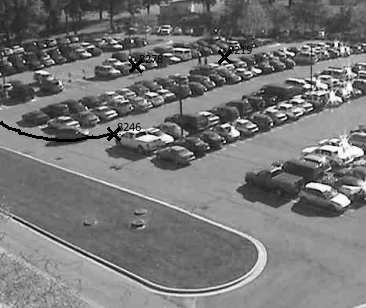
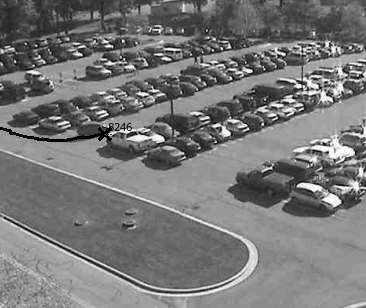
Updates for screenshotting for ARL paper.

diff --git a/src/gui/renderarea.cpp b/src/gui/renderarea.cpp
@@ -33,7 +33,7 @@ RenderArea::RenderArea(QWidget* parent)
   setSizePolicy(QSizePolicy(QSizePolicy::MinimumExpanding, QSizePolicy::MinimumExpanding));
   time = framesShown = 0;
 
-  map = QImage("../videos/ARL1-with-lines.jpg");
+  map = QImage("videos/ARL1-with-lines.jpg");
   if(map.isNull())
     qDebug() << "Unable to load map image.";
 
@@ -250,6 +250,8 @@ void RenderArea::paintEvent(QPaintEvent*)
 	    {
 	      Track* t = entities->tracks_next();
 
+	      if(t->getCy() > 1100) continue;
+
 	      if(t->getPrevId() != 0 || t->getNextId() != 0) // skip tracks that have only one point
 		{
 		  // draw the track on all cameras (if within camera view)
@@ -354,6 +356,14 @@ void RenderArea::paintEvent(QPaintEvent*)
 		      // draw the line
 		      painter.drawLine(c.first - mapTopLeftX, maxHeight + c.second - mapTopLeftY,
 				       o.first - mapTopLeftX, maxHeight + o.second - mapTopLeftY);
+		      
+		      // draw track id
+		      if(t->getThisFrame())
+			{
+			  painter.setPen(trackTextPen);
+			  
+			  painter.drawText(o.first - mapTopLeftX + 7, maxHeight + o.second - mapTopLeftY + 8, QString::number(t->getId()));
+			}
 		    }
 		}
 	    }

diff --git a/src/gui/capturethread.cpp b/src/gui/capturethread.cpp
@@ -5,7 +5,7 @@
 
 #include <unistd.h>
 
-#include "opencv/highgui.h"
+#include "highgui.h"
 
 #include "capturethread.h"
 #include "decoder.h"
@@ -21,10 +21,20 @@ CaptureThread::CaptureThread(Decoder* d, int c)
   QFile file(filename);
   if(!file.exists() || !(capture = cvCaptureFromFile(filename)))
     {
+
       error = true;
     }
 
   fps = cvGetCaptureProperty(capture, CV_CAP_PROP_FPS);
+
+  // synchronize the cameras
+  if(camera == 1)
+    {
+      cvQueryFrame(capture);
+      cvQueryFrame(capture);
+      cvQueryFrame(capture);
+      cvQueryFrame(capture);
+    }
 }
 
 void CaptureThread::run()
@@ -51,6 +61,9 @@ void CaptureThread::run()
       if(image)
 	{
 	  frameNum++;
+
+	  if(frameNum == 453) break;
+
 	  frameTime = frameNum / fps;
 	  frame = new Frame(frameNum, frameTime);
 	  frame->setImage(image);

diff --git a/techreport/surv-1.tex b/techreport/surv-1.tex
@@ -350,6 +350,33 @@ below.
 \section{Player}
 \label{sec:player}
 
+
+\chapter{Recent Changes (to incorporate)}
+
+\section{Generating hypotheses}
+
+\subsection{Noise hypotheses}
+
+For every detection, hypothesize that the detection is noise.
+
+\subsection{Track hypotheses}
+
+\begin{itemize}
+
+\item Determine which detections intersect expected locations of
+  existing tracks.
+
+\item Generate `new track' hypotheses for all detections that do not
+  intersect expected locations.
+
+\item Generate `continuing track' hypotheses for all detections that
+  do intersect expected locations.
+
+\end{itemize}
+
+Thus, if a detection intersects any expected location, there is no
+possibility that a new track will start at that detection location.
+
 \chapter{Evaluation}
 
 \section{Other abductive solutions}

diff --git a/src/gui/decoder.cpp b/src/gui/decoder.cpp
@@ -7,7 +7,7 @@
 #include <math.h>
 #include <vector>
 
-#include "opencv/highgui.h"
+#include "highgui.h"
 
 #include "decoder.h"
 #include "frame.h"

diff --git a/src/gui/renderarea.h b/src/gui/renderarea.h
@@ -8,7 +8,7 @@
 #include <QRegion>
 #include <QPen>
 
-#include "opencv/highgui.h"
+#include "highgui.h"
 
 class Entities;
 class Frame;

diff --git a/src/gui/cameramodel.cpp b/src/gui/cameramodel.cpp
@@ -3,7 +3,7 @@
 #include <QDebug>
 #include <QPair>
 
-#include "opencv/highgui.h"
+#include "highgui.h"
 
 #include "cameramodel.h"
 

diff --git a/src/gui/decoder.h b/src/gui/decoder.h
@@ -1,7 +1,7 @@
 #ifndef DECODER_H
 #define DECODER_H
 
-#include "opencv/cvaux.h"
+#include "cvaux.h"
 
 class Frame;
 

diff --git a/src/gui/frame.h b/src/gui/frame.h
@@ -1,7 +1,7 @@
 #ifndef FRAME_H
 #define FRAME_H
 
-#include "opencv/highgui.h"
+#include "highgui.h"
 
 class Frame
 {

diff --git a/src/gui/frame.cpp b/src/gui/frame.cpp
@@ -1,7 +1,7 @@
 
 #include <vector>
 
-#include "opencv/highgui.h"
+#include "highgui.h"
 
 #include "frame.h"
 
